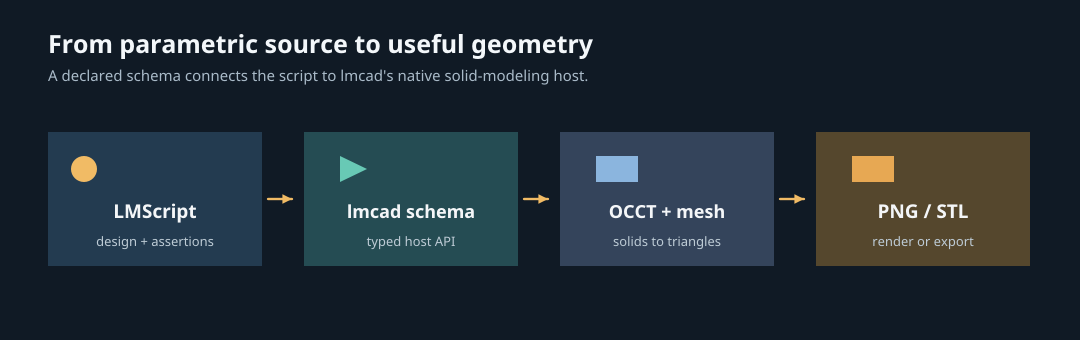
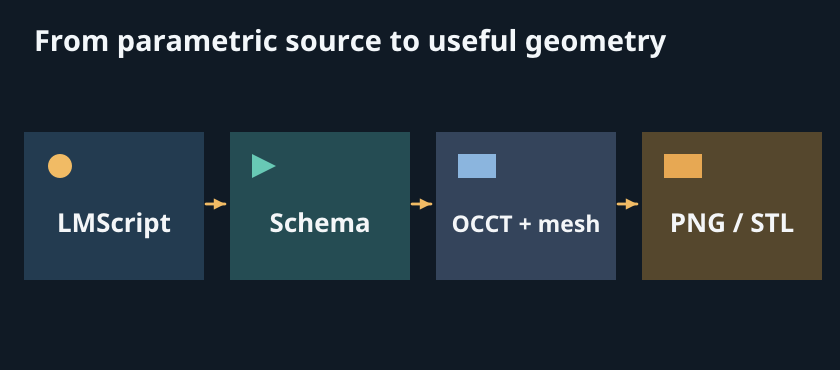
Improve lmcad README mobile diagram

Changed region(s): [[0.031, 0.3529, 0.9905, 0.7941], [0.031, 0.0588, 0.8048, 0.1765], [0.031, 0.2059, 0.5571, 0.2647]]

diff --git a/README.md b/README.md
@@ -49,12 +49,6 @@ For a local script, declare the released host with `cli="lmcad" install="github:
 
 Regenerate all README artwork and example previews with `docs/readme/render.sh`. Its lmscript source files live in `docs/readme/`.
 
-## License and company
-
-lmcad-authored code is MIT licensed; see [`LICENSE`](LICENSE). Third-party terms are listed in [`THIRD_PARTY_NOTICES.md`](THIRD_PARTY_NOTICES.md). Made by **Lattice Systems LLC**.
-
----
-
 ## Build OpenCASCADE once
 
 OCCT 8.0.1 is a native build dependency. On this aarch64 Linux setup, the clean static geometry build takes about 16 minutes and peaks around 386 MiB RSS. The configured set disables Draw, Visualization, ApplicationFramework and DataExchange; there is no X11, OpenGL, Tcl, FreeType or TBB dependency. The prefix is reused by lmcad and fresh clones.
@@ -160,3 +154,5 @@ examples retain their separate licenses and notices listed in
 includes `LICENSE`, `THIRD_PARTY_NOTICES`, the relevant full license texts, and
 OCCT relinking instructions and object files. The npm package layouts declare MIT and `private: true`; the workflow does not
 publish them.
+
+Made by **Lattice Systems LLC**.
